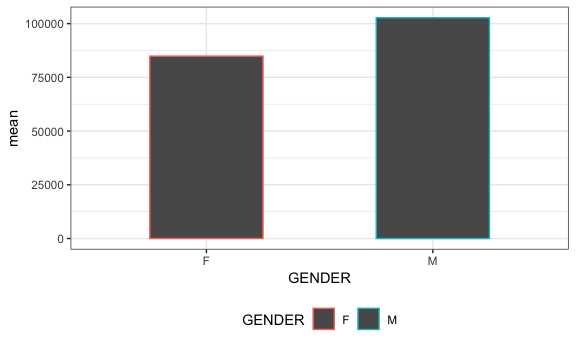
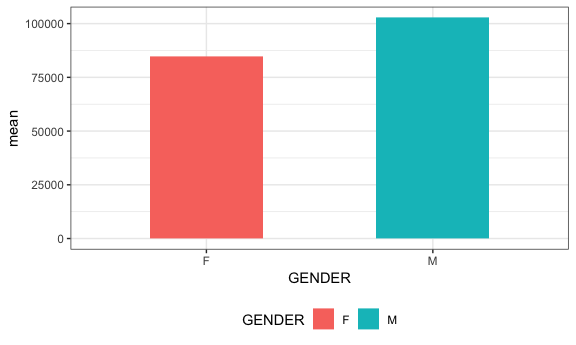
Graphical updates

Changed region(s): [[0.625, 0.029, 0.875, 0.6957], [0.25, 0.1449, 0.4688, 0.6957], [0.5312, 0.8696, 0.6875, 0.9565]]

diff --git a/2017_white_house_salary_analysis.md b/2017_white_house_salary_analysis.md
@@ -1,4 +1,4 @@
-2017 White House Employee Salary Analysis
+2017 White House Employee Salary Analysis - Gender pay gap
 ================
 Amin Yakubu
 10/6/2018
@@ -158,7 +158,7 @@ wh_pay %>%
   summarize(n = n(),
             mean = mean(SALARY),
             median = median(SALARY))  %>%
-  ggplot(aes(x = GENDER, y = mean, color = GENDER)) + 
+  ggplot(aes(x = GENDER, y = mean, fill = GENDER)) + 
   geom_col(width = 0.5) 
 ```
 
@@ -170,21 +170,21 @@ wh_pay %>%
   summarize(n = n(),
             mean = mean(SALARY),
             median = median(SALARY))  %>%
-  ggplot(aes(x = GENDER, y = median, color = GENDER)) + 
+  ggplot(aes(x = GENDER, y = median, fill = GENDER)) + 
   geom_col(width = 0.5) 
 ```
 
 <img src="2017_white_house_salary_analysis_files/figure-markdown_github/unnamed-chunk-8-2.png" width="90%" />
 
 ``` r
-ggplot(wh_pay, aes(x = GENDER, y = SALARY)) +
+ggplot(wh_pay, aes(x = GENDER, y = SALARY, fill = GENDER)) +
   geom_boxplot()
 ```
 
 <img src="2017_white_house_salary_analysis_files/figure-markdown_github/unnamed-chunk-8-3.png" width="90%" />
 
 ``` r
-ggplot(wh_pay, aes(x = STATUS)) + 
+ggplot(wh_pay, aes(x = STATUS, fill = GENDER)) + 
   geom_bar(width = 0.5)
 ```
 
